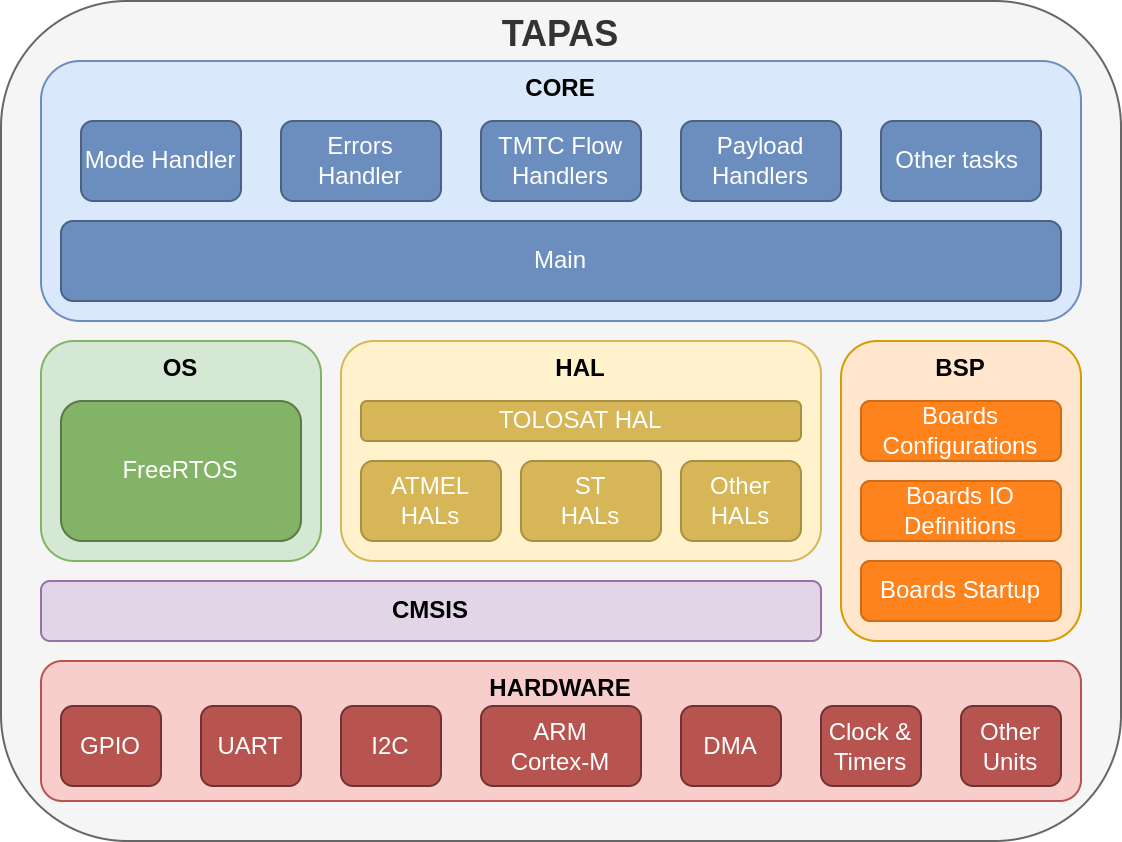
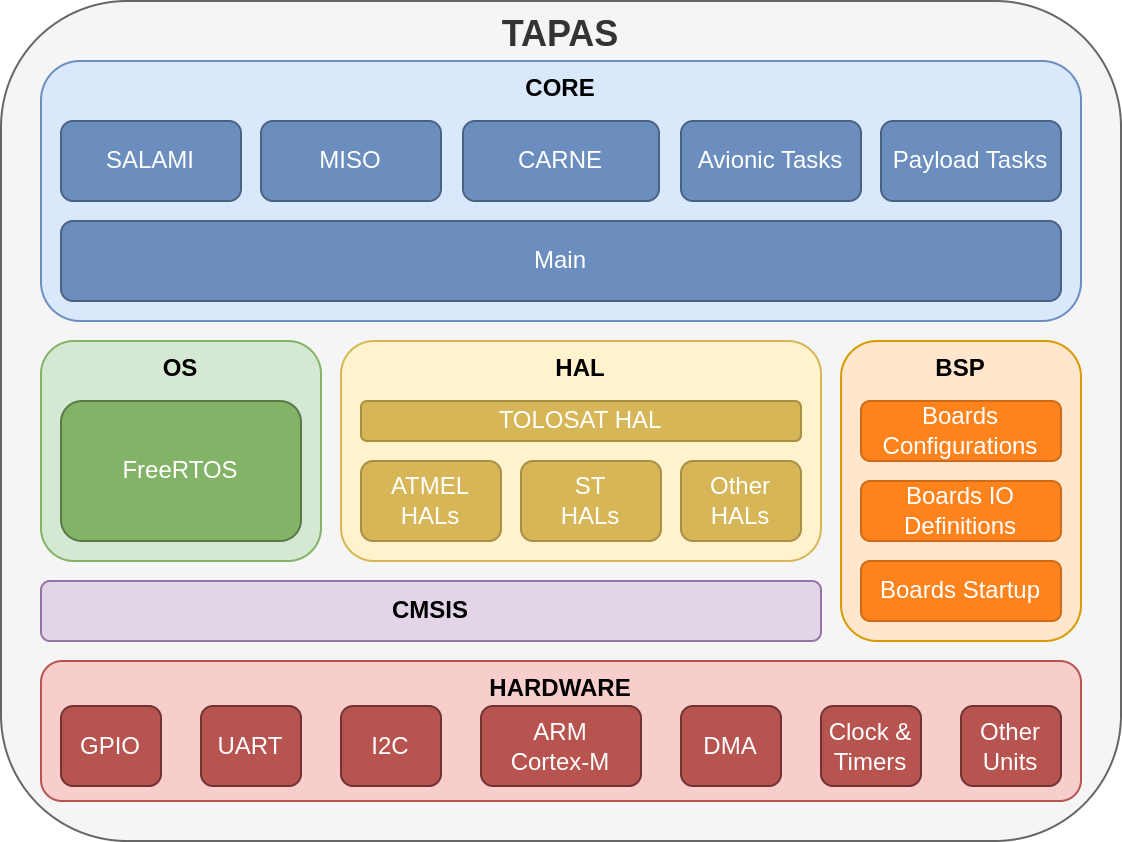
Few addition to documentation

diff --git a/README.md b/README.md
@@ -20,7 +20,7 @@ If you want to know more about the inner workings of TAPAS, you can read the [te
 
 TAPAS is, as mentioned in the previous paragraph, based on FreeRTOS and is intended to run on an ARM-M target. In order to be able to develop a software that can use this OS and adapt to several possible targets, it was decided to separate the source code by functionality. We distinguish three sets of functionalities:
 
-- The core corresponds to the application part of TAPAS, it contains the main and its tasks. 
+- The core corresponds to the application part of TAPAS, it contains main and applications. 
 - The middleware contains high level drivers that allow to perform different tasks of the satellite such as communication with payloads or processing of TM and TC.
 - The tools are all the layers on which the application is based. They include the OS, the CMSIS, the BSP and the HALs. Only the HAL TOLOSAT and BSPs are developed internally, the rest of the layers are recovered from suppliers (ARM, FreeRTOS, ST ...) that's why we defined them as submodules.
 
